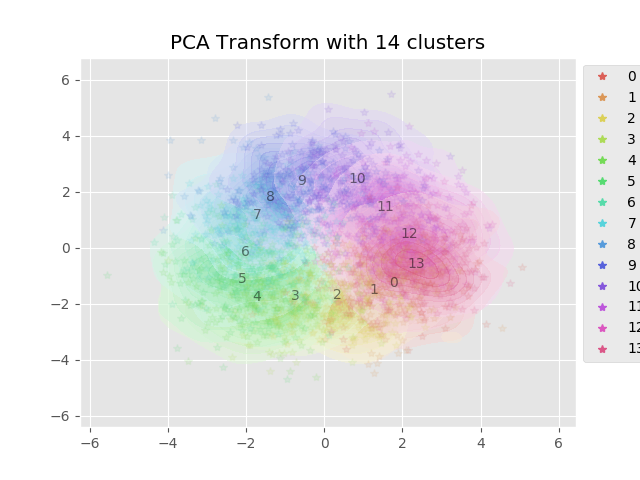
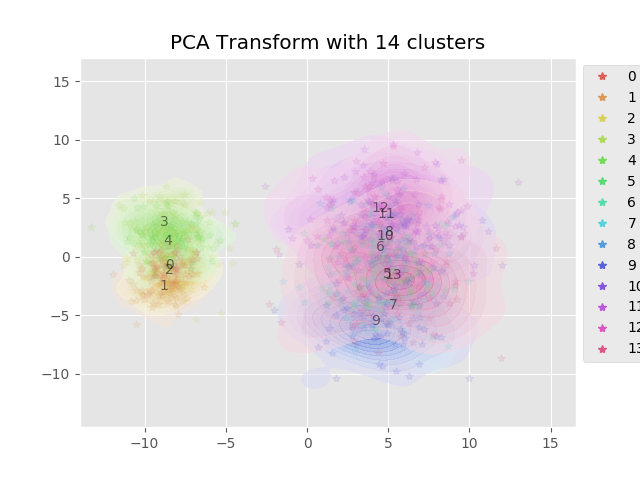
Complicate test data, give it uneven variances

diff --git a/example/example_viz_parametric_tSNE.py b/example/example_viz_parametric_tSNE.py
@@ -35,14 +35,22 @@ except Exception as ex:
 
 
 def _gen_test_data(num_clusters, num_samps):
-    cluster_centers = 3.0*np.identity(num_clusters)
-    perm_vec = np.array([x % num_clusters for x in range(1, num_clusters+1)])
-    cluster_centers += cluster_centers[perm_vec, :]
+    # Make two sets of points, to have local and global distances
+    cluster_centers = np.zeros([num_clusters, num_clusters])
+    top_cluster_size = min([5, num_samps])
+    cluster_centers[0:top_cluster_size, 0:top_cluster_size] = 1.0
+    cluster_centers[top_cluster_size::, top_cluster_size::] = 1.0
+    cluster_centers[np.diag_indices(num_clusters)] *= -1
+    cluster_centers *= top_cluster_size
     
     pick_rows = np.arange(0, num_samps) % num_clusters
+    scales = 1.0 + 2*(np.array(pick_rows, dtype=float) / num_clusters)
     
     test_data = cluster_centers[pick_rows, :]
-    test_data += np.random.normal(loc=1.0, scale=1.0, size=test_data.shape)
+    
+    # Loop through so as to provide a difference variance for each cluster
+    for xx in range(num_samps):
+        test_data[xx, :] += np.random.normal(loc=1.0, scale=scales[xx], size=num_clusters)
     
     return test_data, pick_rows
 
@@ -72,9 +80,9 @@ if __name__ == "__main__":
     # Parametric tSNE example
     num_clusters = 14
     model_path_template = 'example_viz_{model_tag}.h5'
-    override = False
+    override = True
     
-    num_samps = 2000
+    num_samps = 1000
     do_pretrain = True
     epochs = 20
     batches_per_epoch = 8
@@ -104,7 +112,8 @@ if __name__ == "__main__":
 
     transformer_list = [{'label': 'Multiscale tSNE', 'tag': 'tSNE_multiscale', 'perplexity': None, 'transformer': None},
                         {'label': 'tSNE (Perplexity=10)', 'tag': 'tSNE_perp10', 'perplexity': 10, 'transformer': None},
-                        {'label': 'tSNE (Perplexity=100)', 'tag': 'tSNE_perp100', 'perplexity': 100, 'transformer': None}]
+                        {'label': 'tSNE (Perplexity=100)', 'tag': 'tSNE_perp100', 'perplexity': 100, 'transformer': None},
+                        {'label': 'tSNE (Perplexity=500)', 'tag': 'tSNE_perp500', 'perplexity': 500, 'transformer': None}]
     
     for tlist in transformer_list:
         perplexity = tlist['perplexity']
